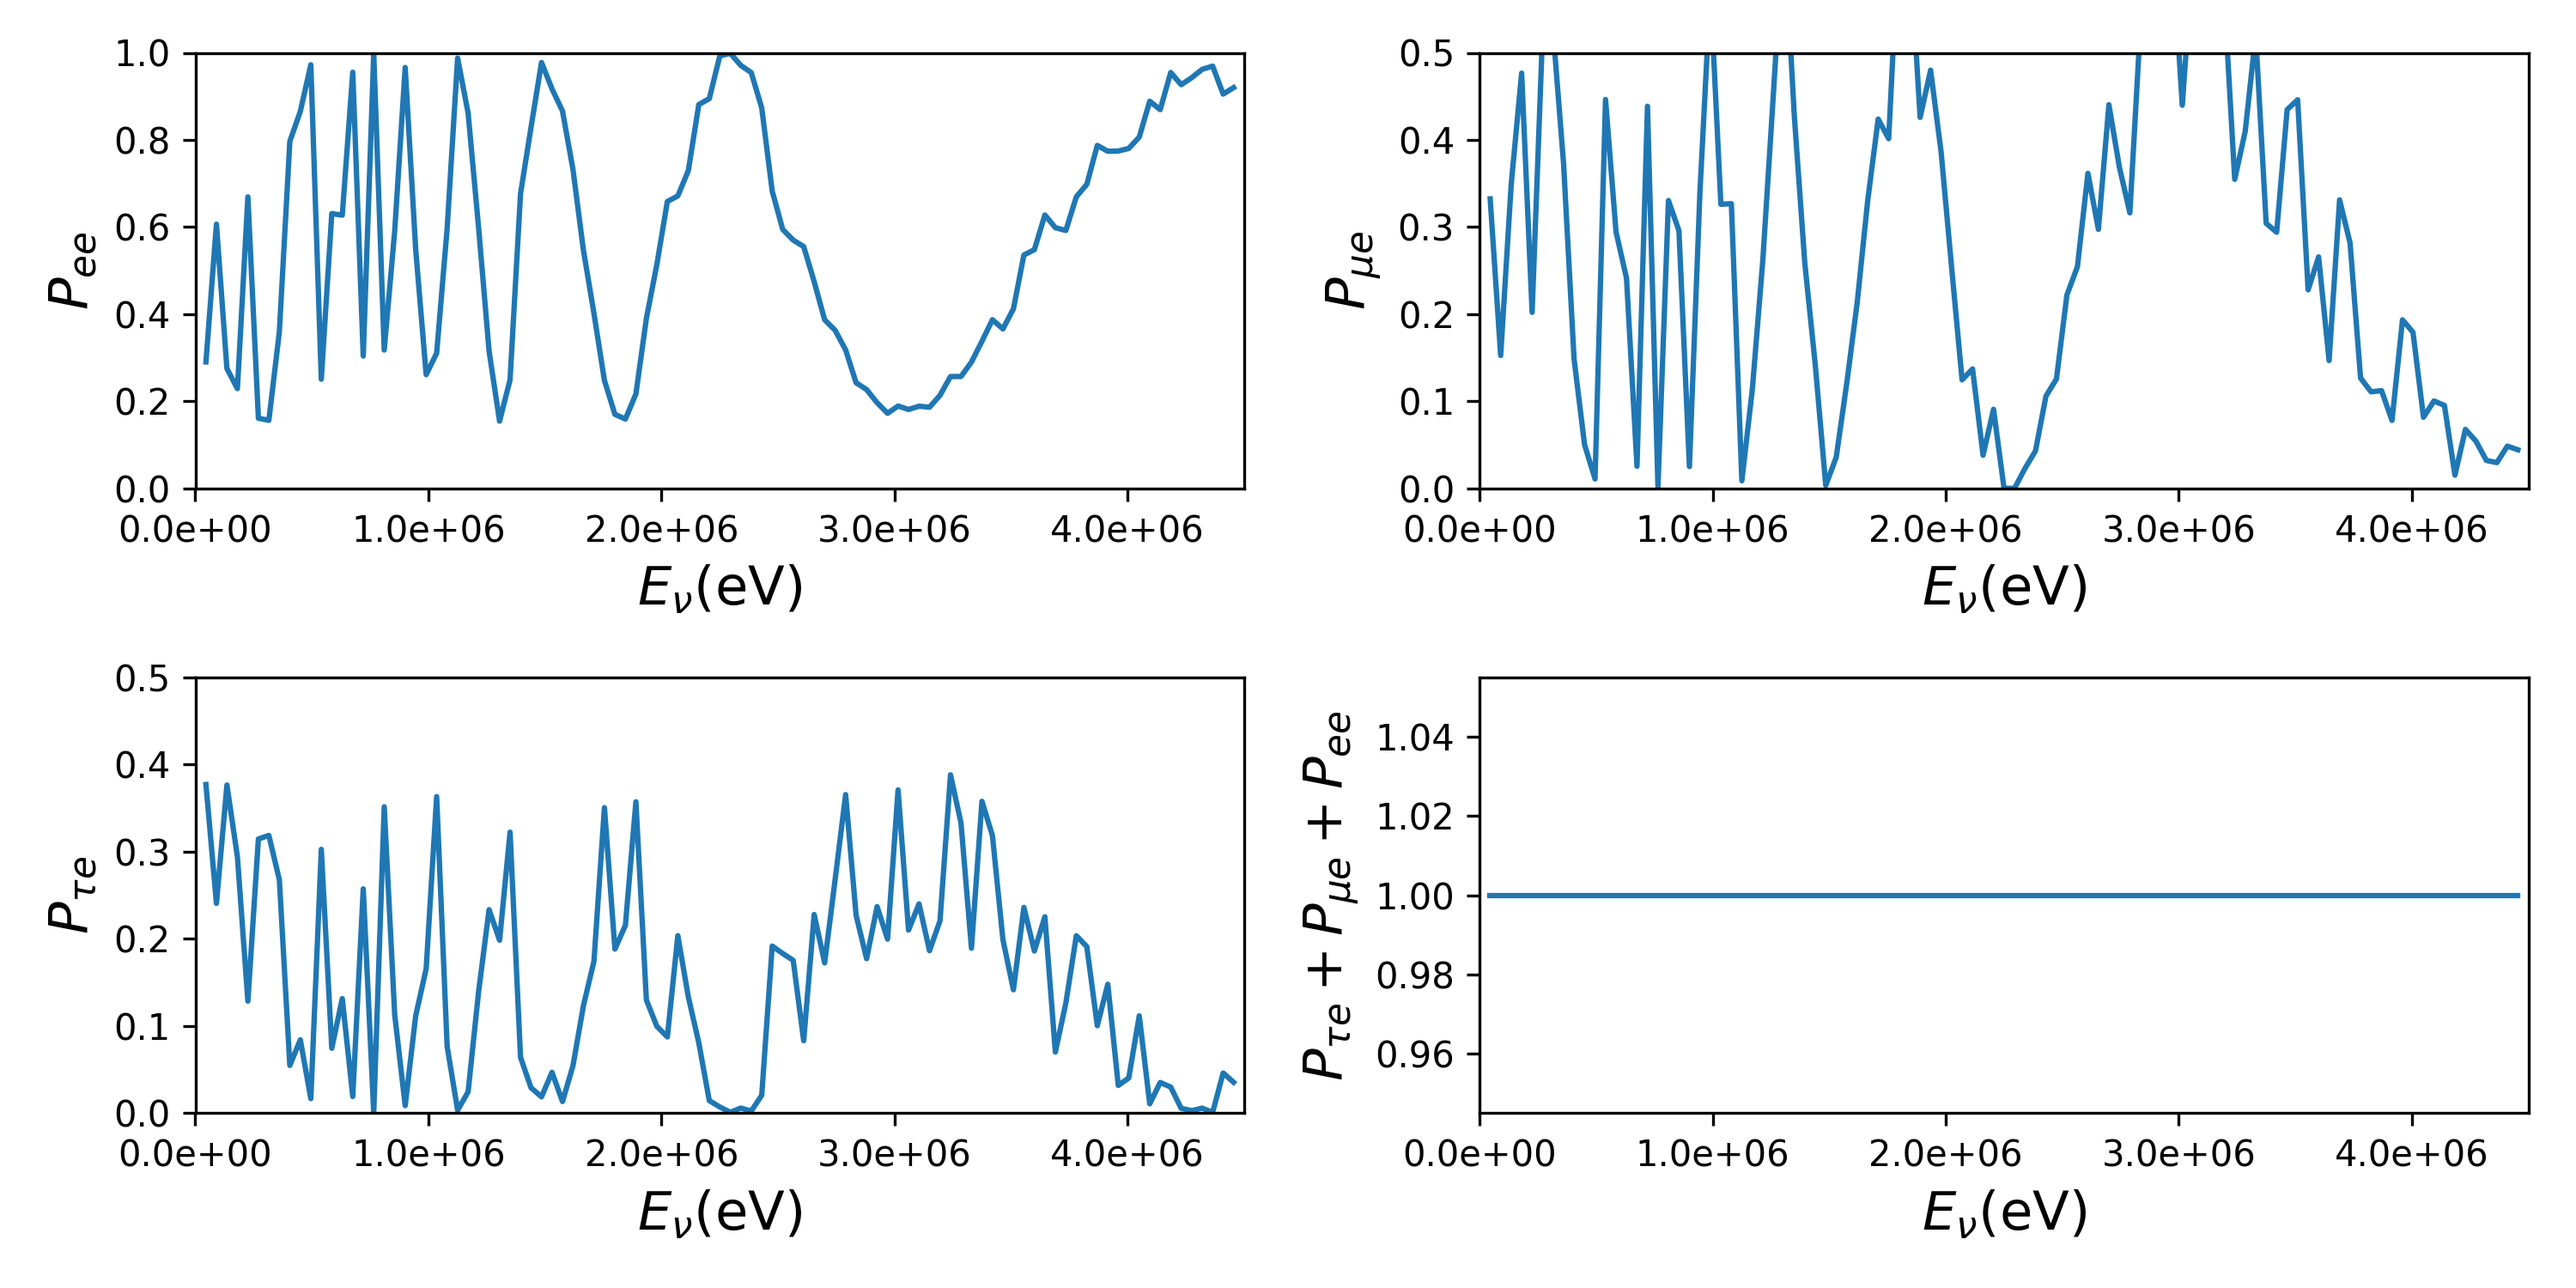
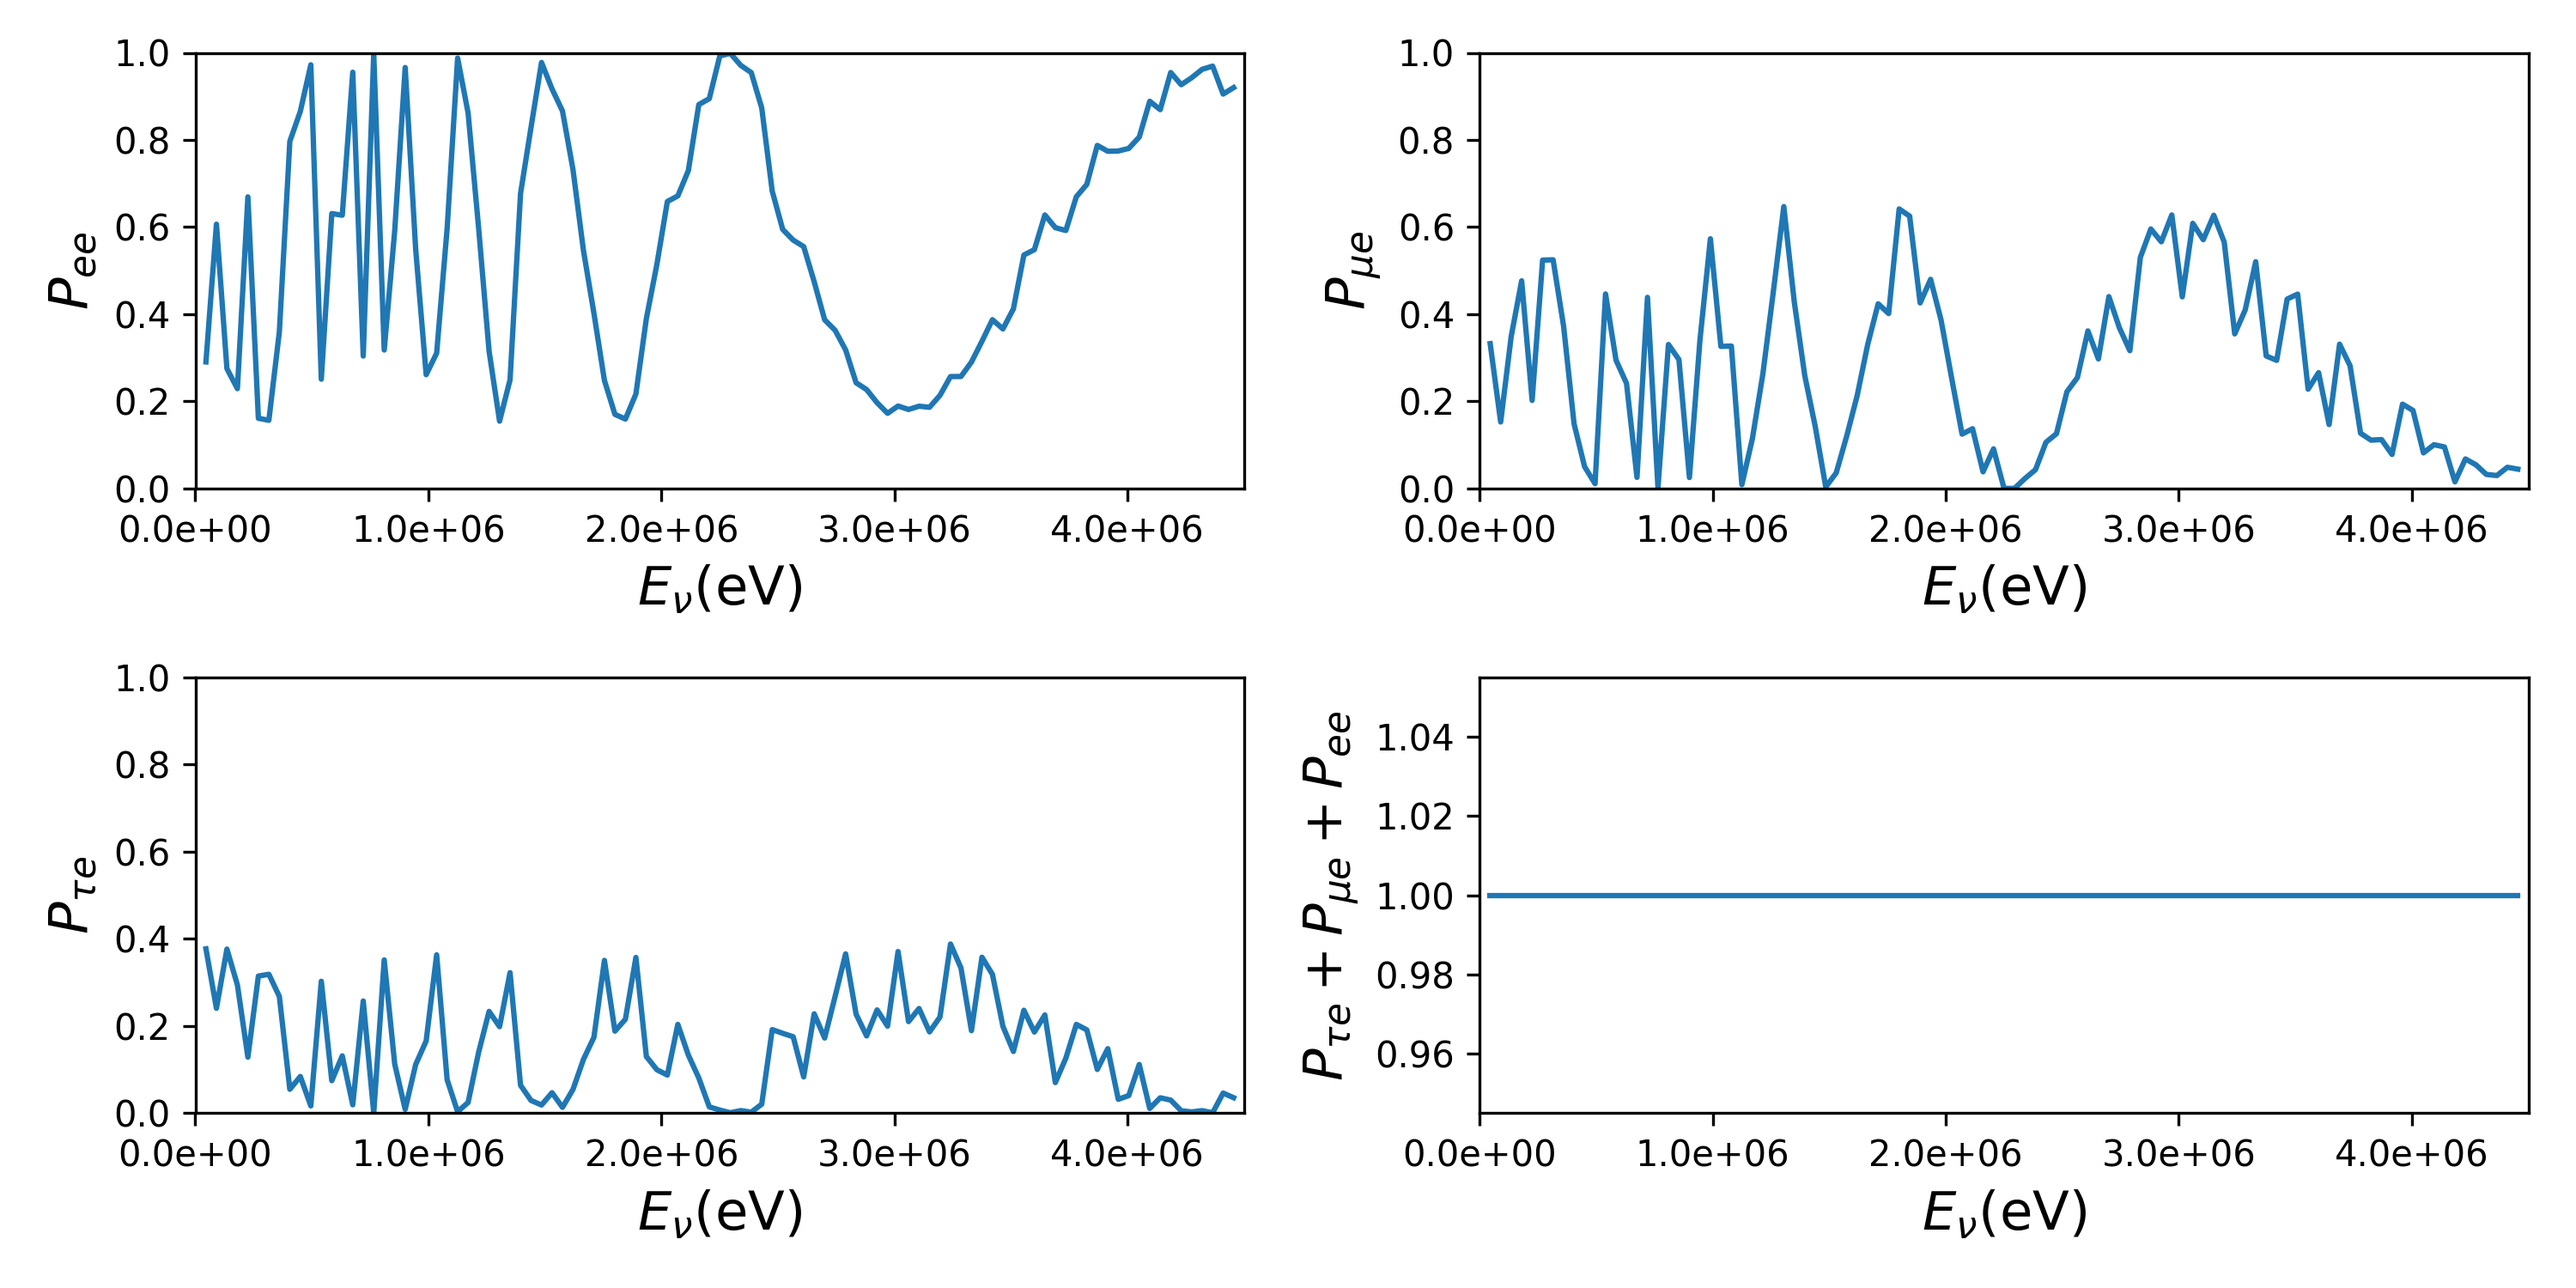
Fixed some plots

diff --git a/uandino_v02/results/real_earth_diameter_test_100E_500KS_32ppn_3n_fixed.282812.clustermaster.uniandes.edu.co/plotTheThing.py b/uandino_v02/results/real_earth_diameter_test_100E_500KS_32ppn_3n_fixed.282812.clustermaster.uniandes.edu.co/plotTheThing.py
@@ -24,8 +24,8 @@ def plot(data):
 		ax[i,k].xaxis.set_major_formatter(mtick.FormatStrFormatter('%.1e'))
 		ax[i,k].locator_params(axis='x', nbins=5)
 	#ax[1,1].set_ylim(1-0.00001, 1+0.00001)
-	ax[0,1].set_ylim(0,0.5)
-	ax[1,0].set_ylim(0,0.5)
+	ax[0,1].set_ylim(0,1)
+	ax[1,0].set_ylim(0,1)
 	ax[0,0].set_ylim(0,1)
 	plt.tight_layout()
 	return probabilities
